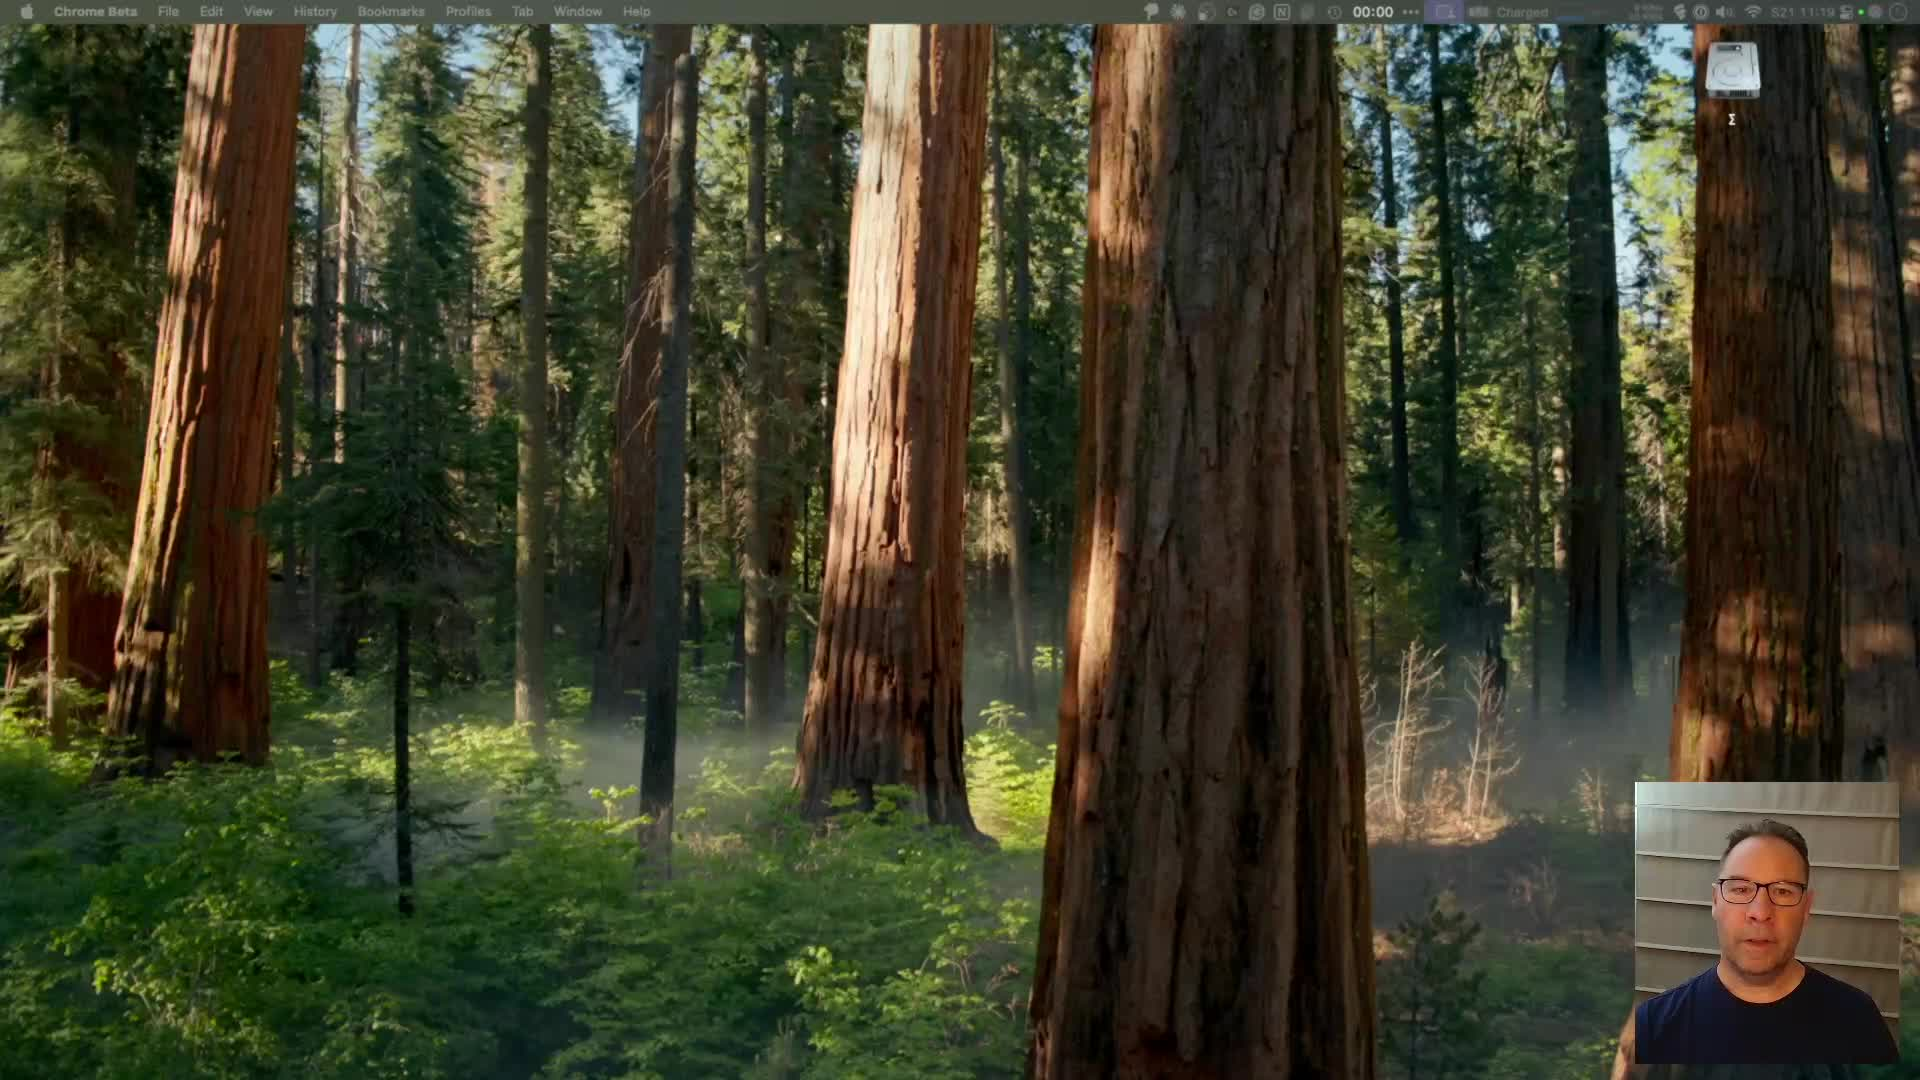
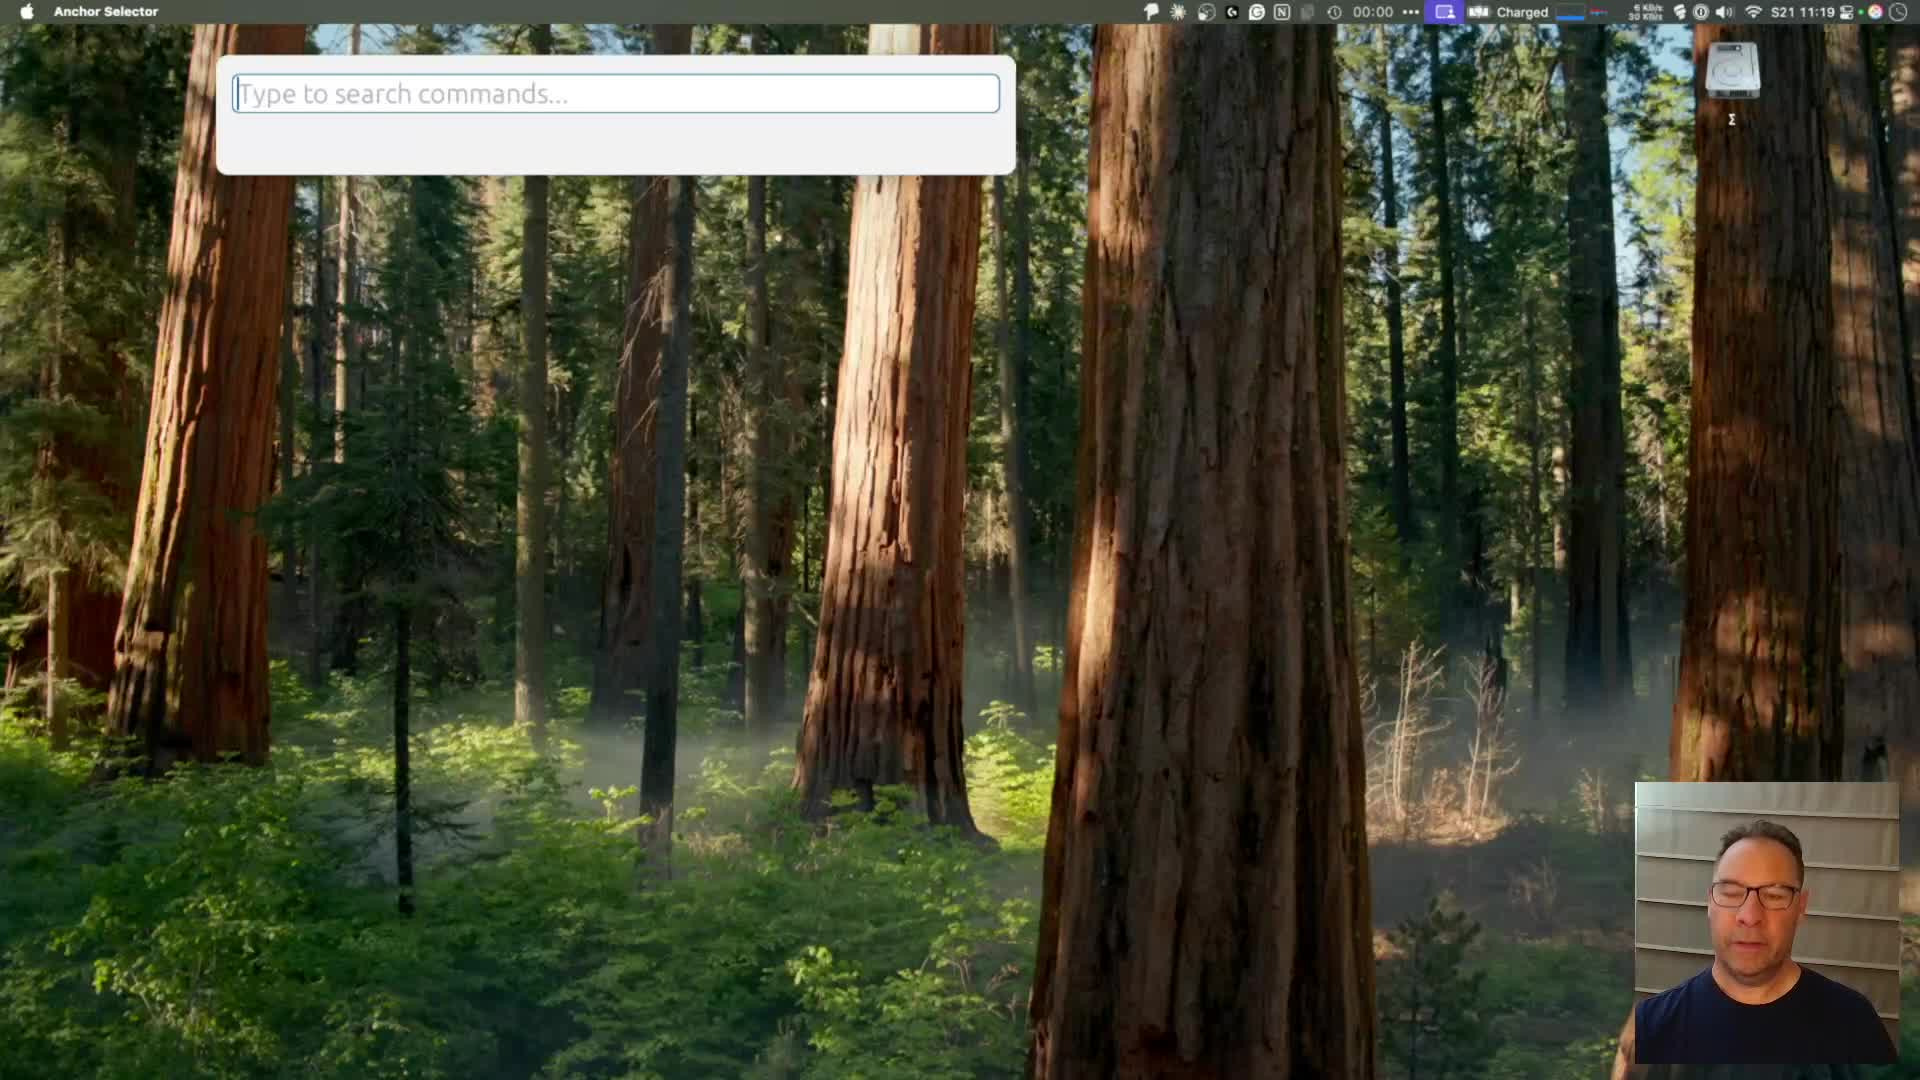
Update thumbnail to 22 seconds showing popup

diff --git a/gitproj/HookAnchor/HookAnchor.md b/gitproj/HookAnchor/HookAnchor.md
@@ -1,7 +1,7 @@
 ---
 layout: cayman
 title: Hook Anchor
-description: An Approach for Knowledge Management (associated tool is in private beta)
+description: An Approach for Knowledge Management<br>(the associated Mac app is in private beta)
 permalink: /gitproj/HookAnchor/
 ---
 
